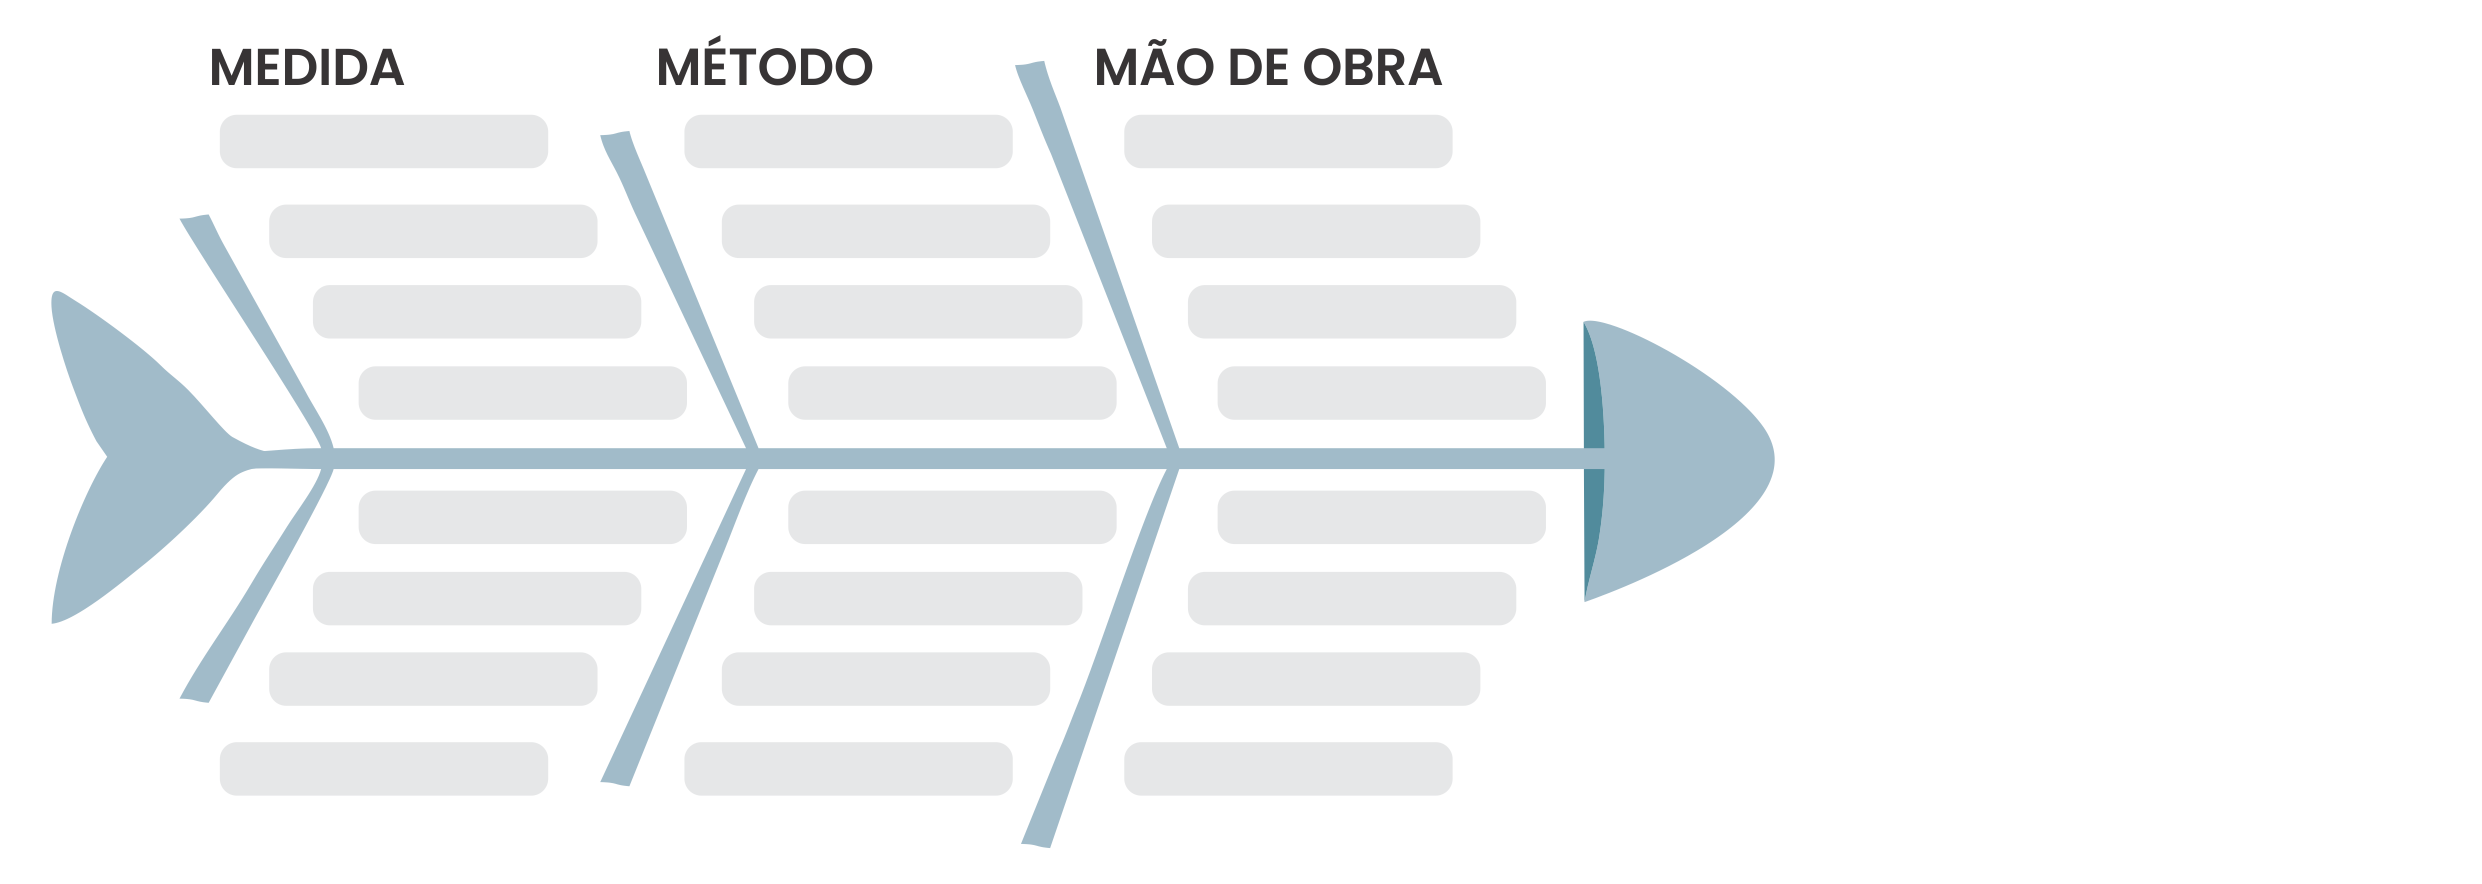
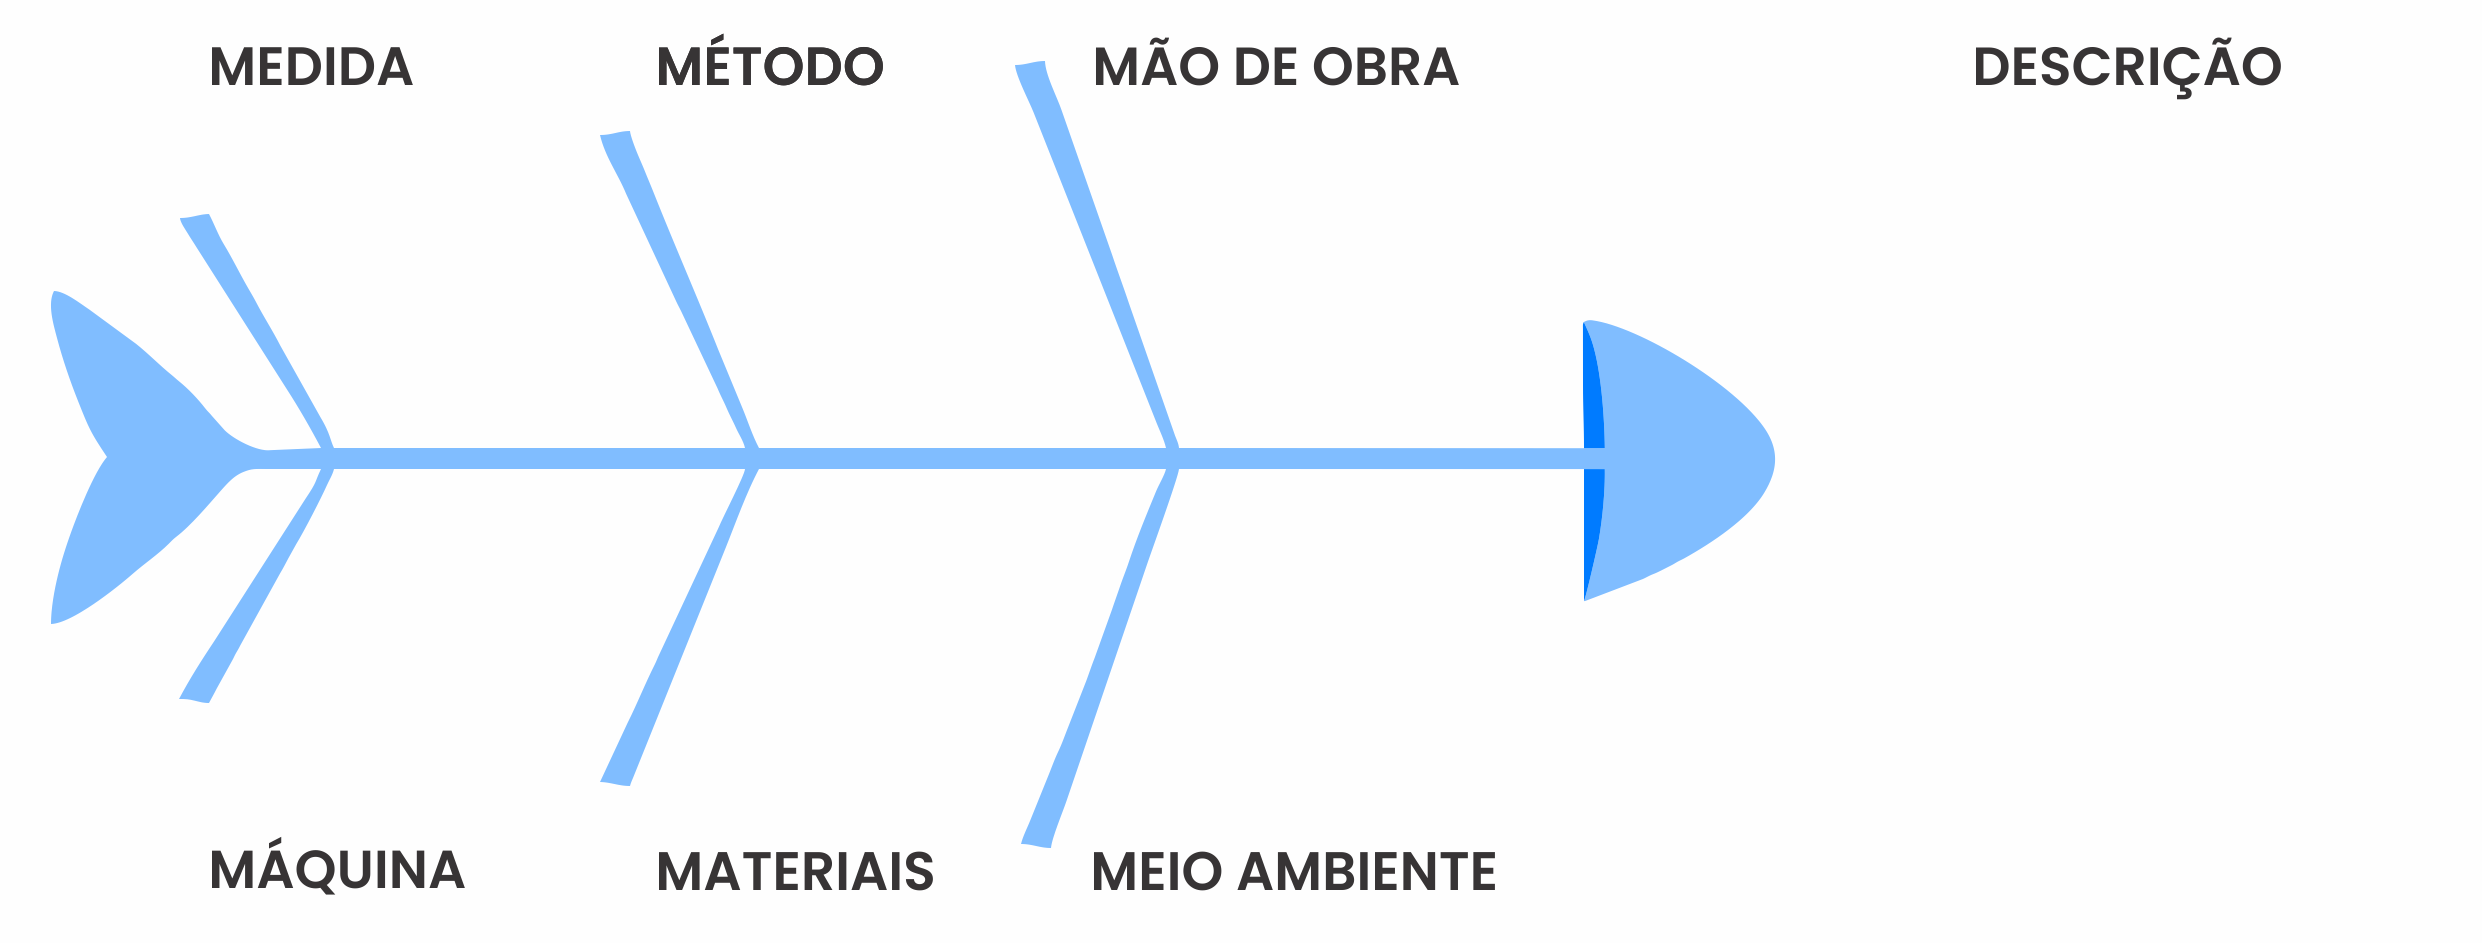
es-peixe concluída

diff --git a/views/_css/style.css b/views/_css/style.css
@@ -266,13 +266,9 @@ input[type="text"]:placeholder {
   width: 100%;
 }
 
-.container-peixe {
-  width: 1060px;
-  height: 90px;
-}
-
 .esp-peixe {
-  background-color: #56baed;
+  background-image: url(../_images/esp-peixe.png);
+  background-size: cover;
 }
 
 /* OTHERS */

diff --git a/views/sacp/inserir-sacp.php b/views/sacp/inserir-sacp.php
@@ -3,8 +3,8 @@ if (!defined('ABSPATH')) exit;
 ?>
 
 <!-- page content -->
-<div class="row">
-    <div class="col-md-12 col-sm-12 col-xs-12">
+<div class="row-fuid">
+    <div class="shadow p-4 mb-4 bg-white rounded">
         <div class="x_panel">
             <div class="x_title">
                 <h2>SACP<small> Gerar uma nova SACP</small></h2>
@@ -17,8 +17,7 @@ if (!defined('ABSPATH')) exit;
                     <div class="form-group">
                         <label class="control-label col-md-3 col-sm-3 col-xs-12">Nome</label>
                         <div class="col-md-9 col-sm-9 col-xs-12">
-                            <input type="text" class="form-control" name="nome" required="required"
-                                placeholder="Nome SACP">
+                            <input type="text" class="form-control" name="nome" required="required" placeholder="Nome SACP">
                         </div>
                     </div>
                     <div class="form-group">
@@ -27,26 +26,139 @@ if (!defined('ABSPATH')) exit;
                             <select class="form-control" name="opcoes" required="required">
                                 <option hidden>Selecione uma opção</option>
                                 <?php foreach ($opcoes as $key => $value) { ?>
-                                <option value="<?= $value['id'] ?>"><?= $value['nome'] ?></option>
+                                    <option value="<?= $value['id'] ?>"><?= $value['nome'] ?></option>
                                 <?php } ?>
                             </select>
                         </div>
                     </div>
 
-                    <div style="clear:both;"></div>
+                    <!--Div esp-peixe-->
+                    <div style="width: 1250px;  height: 450px;" class="row-fuid esp-peixe">
+                        <label for="Ajuste Altura"></label>
 
-                    <div class="ln_solid"></div>
-                    <div class="form-group">
-                        <div class="col-md-9 col-sm-9 col-xs-12 col-md-offset-3">
-                            <button type="button" class="btn btn-secondary"
-                                onclick="window.location='<?= HOME_URI ?>/sacp/'">Voltar</button>
-                            <button type="submit" class="btn btn-primary">Gerar SACP</button>
+                        <!--L1-->
+                        <div style="z-index:8; position:relative" class="row">
+                            <textarea class="form-control" style="position:absolute; min-height: 32px; margin-left: 10%; margin-top: 2.6%; width:160px; height: 32px;" id="#" rows="1" placeholder=" 1 -"></textarea>
+
+                            <textarea class="form-control" style="position:absolute; min-height: 32px; margin-left: 28.3%; margin-top: 2.6%;  width:160px; height: 32px;" id="#" rows="1" placeholder=" 1 -"></textarea>
+
+                            <textarea class="form-control" style="position:absolute; min-height: 32px; margin-left: 45.6%; margin-top: 2.6%;  width:160px; height: 32px;" id="#" rows="1" placeholder=" 1 -"></textarea>
                         </div>
+                        <!--endL1-->
+
+                        <!--L2-->
+                        <div style="z-index:7; position:relative" class="row">
+                            <textarea class="form-control" style="position:absolute; min-height: 32px; margin-left: 11.9%; margin-top: 6%; width:160px; height: 32px;" id="#" rows="1" placeholder=" 2 -"></textarea>
+
+                            <textarea class="form-control" style="position:absolute; min-height: 32px; margin-left: 29.75%; margin-top: 6%;  width:160px; height: 32px;" id="#" rows="1" placeholder=" 2 -"></textarea>
+
+                            <textarea class="form-control" style="position:absolute; min-height: 32px; margin-left: 46.7%; margin-top: 6%;  width:160px; height: 32px;" id="#" rows="1" placeholder=" 2 -"></textarea>
+                        </div>
+                        <!--endL2-->
+
+                        <!--L3-->
+                        <div style="z-index:6; position:relative" class="row">
+                            <textarea class="form-control" style="position:absolute; min-height: 32px; margin-left: 13.6%; margin-top: 9.3%; width:160px; height: 32px;" id="#" rows="1" placeholder=" 3 -"></textarea>
+
+                            <textarea class="form-control" style="position:absolute; min-height: 32px; margin-left: 31%; margin-top: 9.3%;  width:160px; height: 32px;" id="#" rows="1" placeholder=" 3 -"></textarea>
+
+                            <textarea class="form-control" style="position:absolute; min-height: 32px; margin-left: 48%; margin-top: 9.3%;  width:160px; height: 32px;" id="#" rows="1" placeholder=" 3 -"></textarea>
+                        </div>
+                        <!--endL3-->
+
+                        <!--L4-->
+                        <div style="z-index:5; position:relative" class="row">
+                            <textarea class="form-control" style="position:absolute; min-height: 32px; margin-left: 15.4%; margin-top: 12.5%; width:160px; height: 32px;" id="#" rows="1" placeholder=" 4 -"></textarea>
+
+                            <textarea class="form-control" style="position:absolute; min-height: 32px; margin-left: 32.3%; margin-top: 12.5%;  width:160px; height: 32px;" id="#" rows="1" placeholder=" 4 -"></textarea>
+
+                            <textarea class="form-control" style="position:absolute; min-height: 32px; margin-left: 49.3%; margin-top: 12.5%;  width:160px; height: 32px;" id="#" rows="1" placeholder=" 4 -"></textarea>
+                        </div>
+                        <!--endL4-->
+
+                        <!--L5-->
+                        <div style="z-index:4; position:relative" class="row">
+                            <textarea class="form-control" style="position:absolute; min-height: 32px; margin-left: 15.4%; margin-top: 17.3%; width:160px; height: 32px;" id="#" rows="1" placeholder=" 1 -"></textarea>
+
+                            <textarea class="form-control" style="position:absolute; min-height: 32px; margin-left: 32.3%; margin-top: 17.3%;  width:160px; height: 32px;" id="#" rows="1" placeholder=" 1 -"></textarea>
+
+                            <textarea class="form-control" style="position:absolute; min-height: 32px; margin-left: 49.3%; margin-top: 17.3%;  width:160px; height: 32px;" id="#" rows="1" placeholder=" 1 -"></textarea>
+                        </div>
+                        <!--endL5-->
+
+                        <!--L6-->
+                        <div style="z-index:3; position:relative" class="row">
+                            <textarea class="form-control" style="position:absolute; min-height: 32px; margin-left: 13.6%; margin-top: 20.6%; width:160px; height: 32px;" id="#" rows="1" placeholder=" 2 -"></textarea>
+
+                            <textarea class="form-control" style="position:absolute; min-height: 32px; margin-left: 31%; margin-top: 20.6%;  width:160px; height: 32px;" id="#" rows="1" placeholder=" 2 -"></textarea>
+
+                            <textarea class="form-control" style="position:absolute; min-height: 32px; margin-left: 48%; margin-top: 20.6%;  width:160px; height: 32px;" id="#" rows="1" placeholder=" 2 -"></textarea>
+                        </div>
+                        <!--endL6-->
+
+                        <!--L7-->
+                        <div style="z-index:2; position:relative" class="row">
+                            <textarea class="form-control" style="position:absolute; min-height: 32px; margin-left: 11.9%; margin-top: 23.8%; width:160px; height: 32px;" id="#" rows="1" placeholder=" 3 -"></textarea>
+
+                            <textarea class="form-control" style="position:absolute; min-height: 32px; margin-left: 29.75%; margin-top: 23.8%;  width:160px; height: 32px;" id="#" rows="1" placeholder=" 3 -"></textarea>
+
+                            <textarea class="form-control" style="position:absolute; min-height: 32px; margin-left: 46.7%; margin-top: 23.8%;  width:160px; height: 32px;" id="#" rows="1" placeholder=" 3 -"></textarea>
+                        </div>
+                        <!--endL7-->
+
+                        <!--L2-->
+                        <div style="z-index:1; position:relative" class="row">
+                            <textarea class="form-control" style="position:absolute; min-height: 32px; margin-left: 10%; margin-top: 27%; width:160px; height: 32px;" id="#" rows="1" placeholder=" 4 -"></textarea>
+
+                            <textarea class="form-control" style="position:absolute; min-height: 32px; margin-left: 28.3%; margin-top: 27%;  width:160px; height: 32px;" id="#" rows="1" placeholder=" 4 -"></textarea>
+
+                            <textarea class="form-control" style="position:absolute; min-height: 32px; margin-left: 45.6%; margin-top: 27%;  width:160px; height: 32px;" id="#" rows="1" placeholder=" 4 -"></textarea>
+                        </div>
+                        <!--endL2-->
+
+                        <!--Descrição-->
+                        <div style="z-index:1; position:relative" class="row">
+                            <textarea class="form-control" style="position:absolute; min-height: 32px; margin-left: 72.4%; margin-top: 2.8%; width:320px; height: 342px;" id="#" rows="1" placeholder="Adicione uma descrição:"></textarea>
+                        </div>
+                        <!--endDescr-->
+
+
+
+
                     </div>
-                </form>
             </div>
+            <!--endL8-->
+
+            <!--end esp-peixe-->
+
+
+
+
+
+
+
+
+
+
+
+
+            <br><!-- fim conteúdo -->
+            <br>
+            <div style="clear:both;"></div>
+
+            <div class="ln_solid"></div>
+            <div class="form-group">
+                <div class="col-md-9 col-sm-9 col-xs-12 col-md-offset-3">
+                    <button type="button" class="btn btn-secondary" onclick="window.location='<?= HOME_URI ?>/sacp/'">Voltar</button>
+                    <button type="submit" class="btn btn-primary">Gerar SACP</button>
+                </div>
+            </div>
+            </form>
+            <hr>
         </div>
     </div>
 </div>
+</div>
+
 
 <!-- /page content -->
